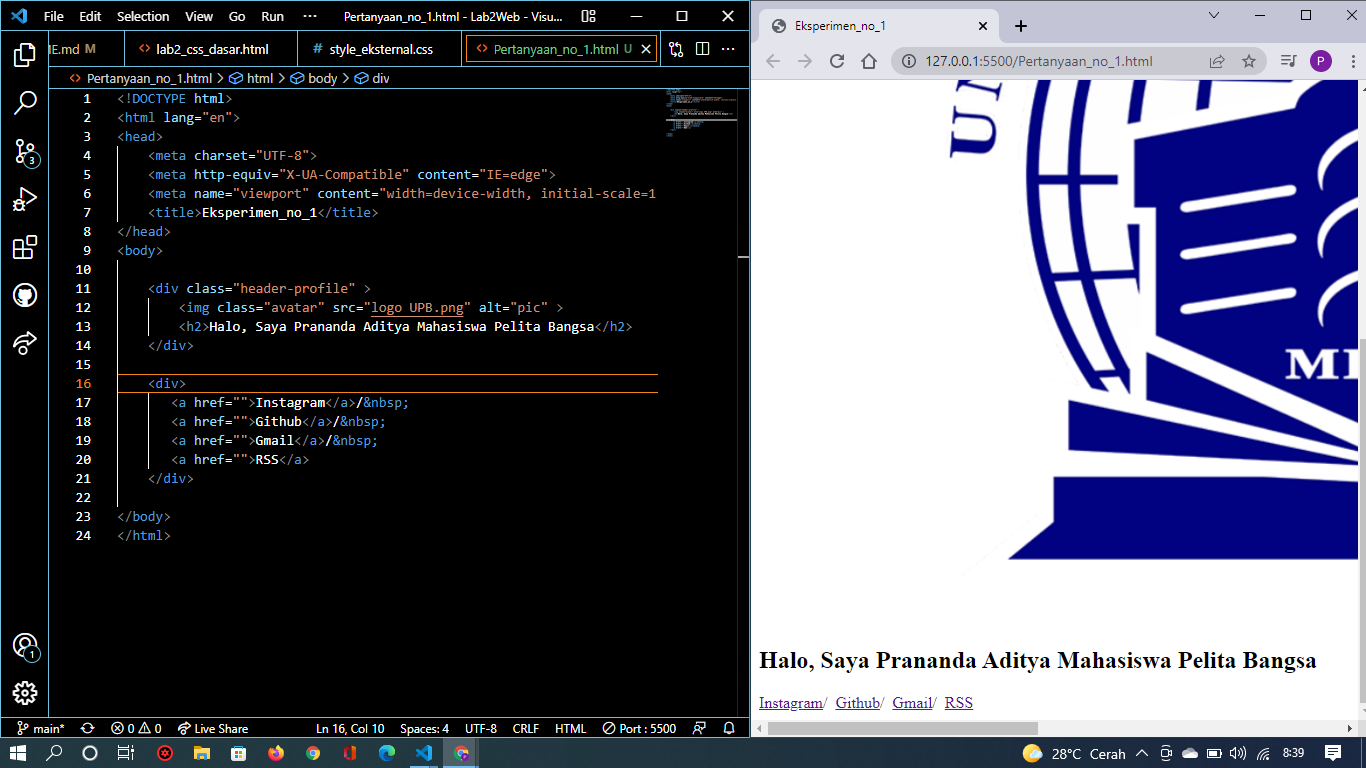
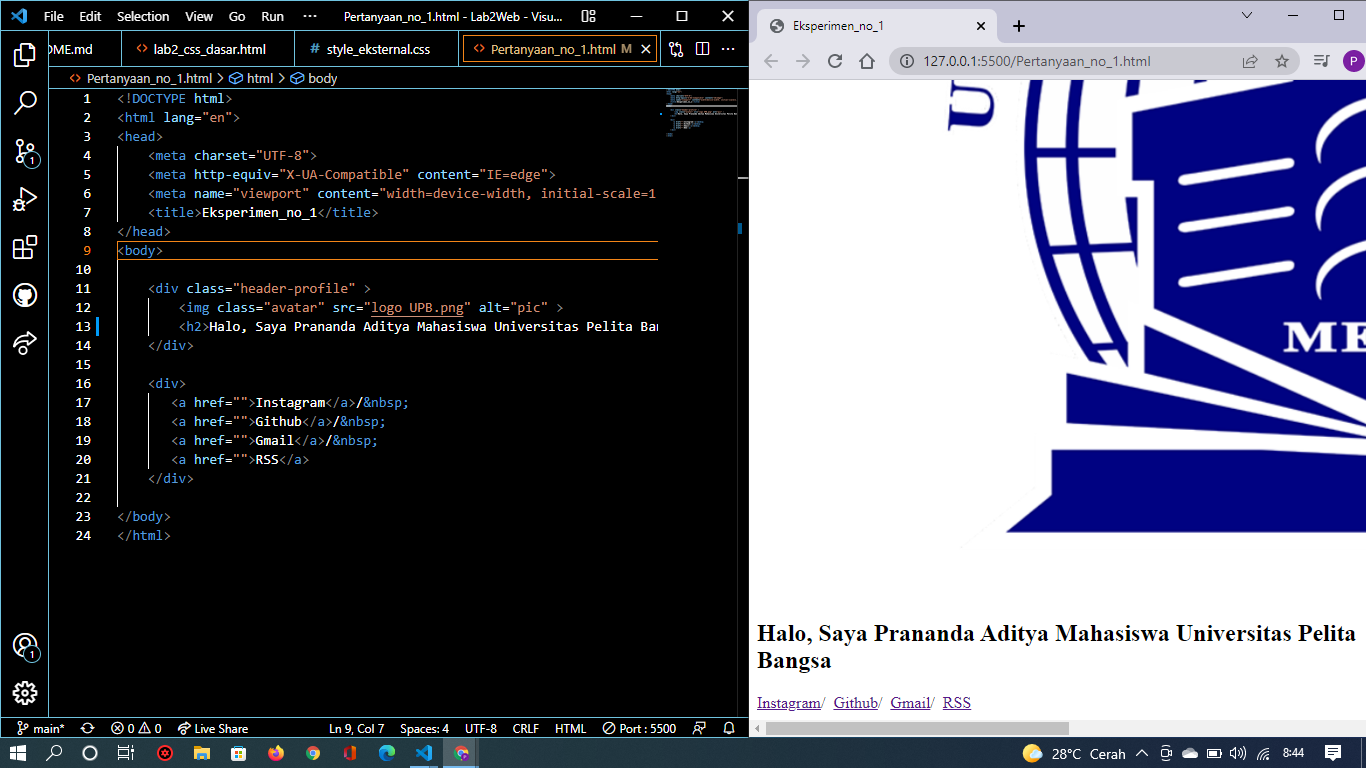
menambahkan foto

diff --git a/Pertanyaan_no_1.html b/Pertanyaan_no_1.html
@@ -10,7 +10,7 @@
     
     <div class="header-profile" >
         <img class="avatar" src="logo UPB.png" alt="pic" >
-        <h2>Halo, Saya Prananda Aditya Mahasiswa Pelita Bangsa</h2>
+        <h2>Halo, Saya Prananda Aditya Mahasiswa Universitas Pelita Bangsa</h2>
     </div>
 
     <div>
